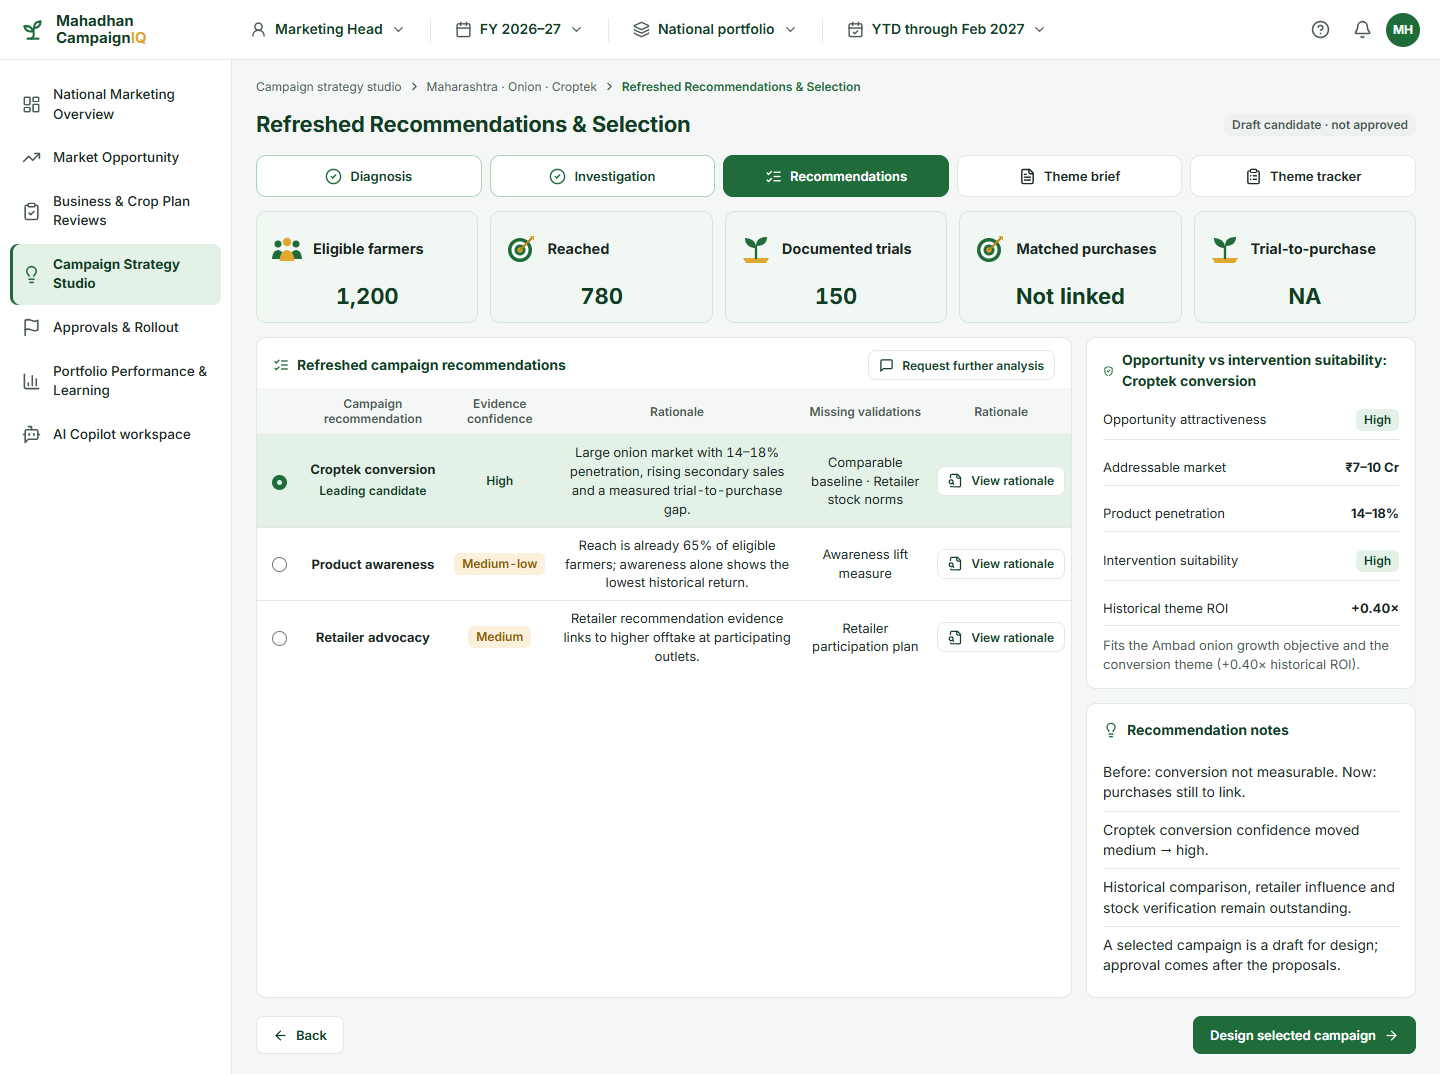
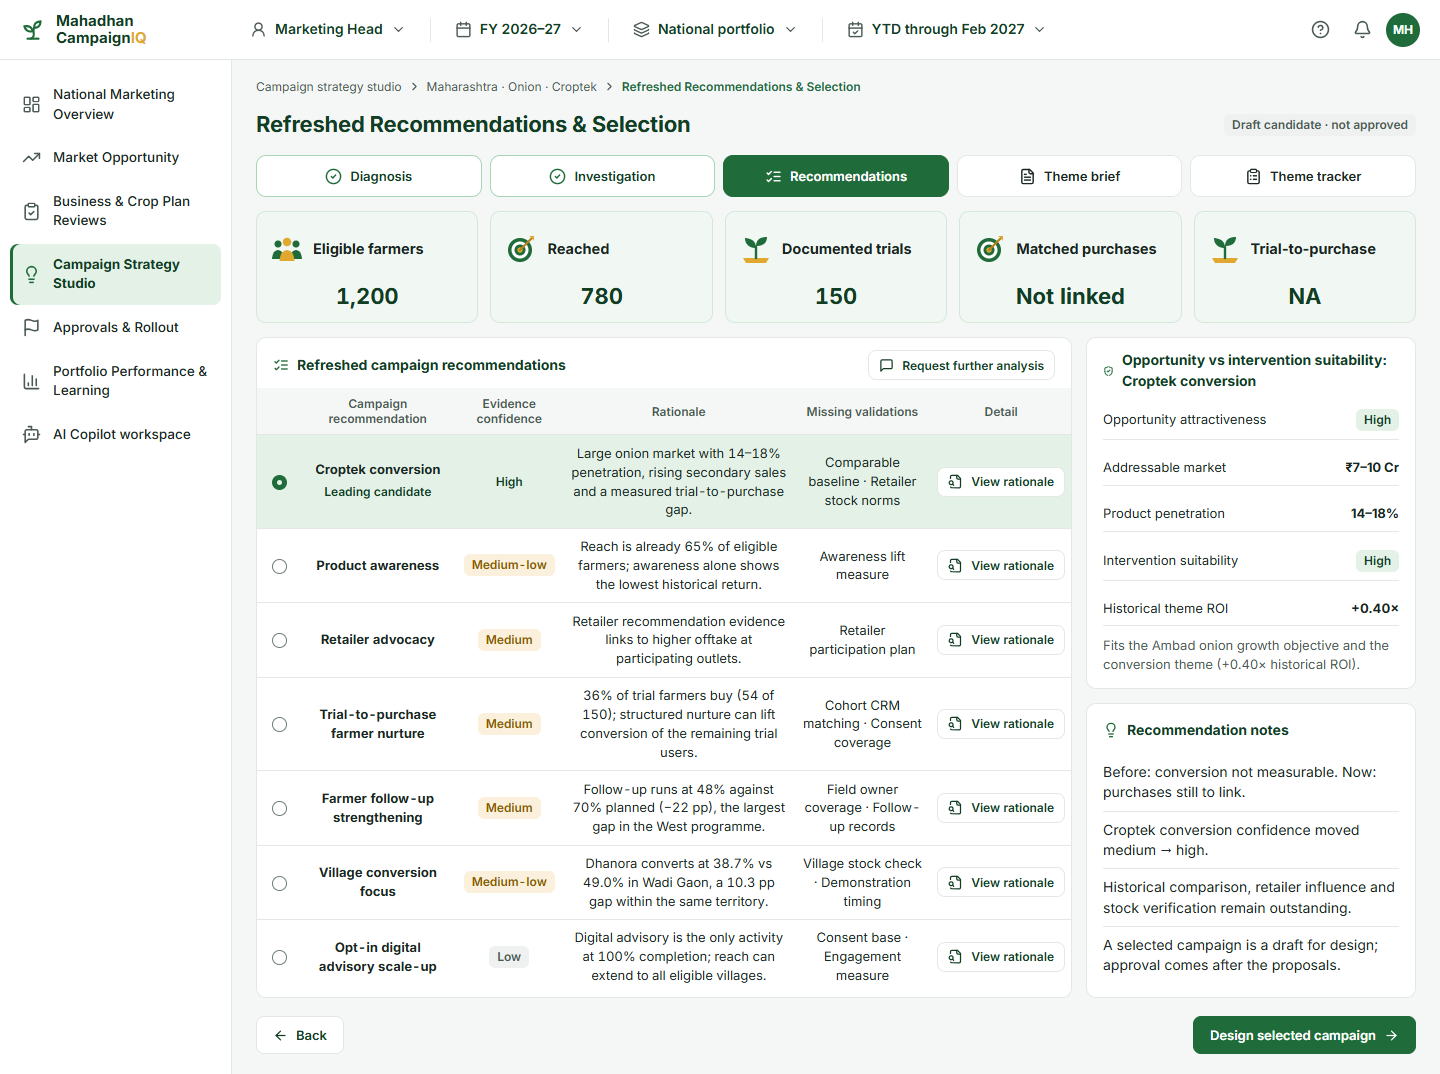
MH: fuller campaign recommendations

diff --git a/campaigniq-v3/src/data/mh.ts b/campaigniq-v3/src/data/mh.ts
@@ -6,7 +6,7 @@
 import type { MhRegionId } from '../routes';
 import { AMBAD, ambadMetrics, CAMPAIGNS, campaignById, netRoi, NATIONAL, REGIONS, regionById, regionRoi, THEMES, type ThemeId } from './bh';
 import { ratio, sum } from './format';
-import { coverageCalc, ONION_VILLAGE_PLAN } from './fsm';
+import { coverageCalc, interventionEffectiveness, ONION_VILLAGE_PLAN } from './fsm';
 import {
   approvalQueue, businessCaseC1, businessCaseC2, CROPTEK_EVIDENCE, impactRows, REGIONAL_ENVELOPE, scenariosFor, territoryPlan, trialToPurchasePct,
   fsmOwner, ZM_TERRITORY_IDS, zmTerritoryName,
@@ -135,11 +135,37 @@ export const STATUS_AFTER_CREATE: Record<string, RequestStatus> = { purchases: '
 export const nextRequestStatus = (s: RequestStatus): RequestStatus => (s === 'draft' ? 'requested' : s === 'requested' ? 'received' : 'validated');
 
 // ---------------------------------------------------------------- recommendations
-export interface Recommendation { id: string; name: string; theme: ThemeId; leading: boolean; before: 'Medium' | 'Low' | 'Medium-low'; after: 'High' | 'Medium' | 'Medium-low'; rationale: string; missing: string[]; suitability: string }
+export interface Recommendation { id: string; name: string; theme: ThemeId; leading: boolean; before: 'Medium' | 'Low' | 'Medium-low'; after: 'High' | 'Medium' | 'Medium-low' | 'Low'; rationale: string; missing: string[]; suitability: string }
+/** Programme intervention progress (%), shared by the recommendations and the performance screens. */
+const RETAILER_PROGRESS = { planned: 80, observed: 72 };
+const FOLLOWUP_PROGRESS = { planned: 70, observed: 48 };
+const village = (name: string) => AMBAD.villages.find((v) => v.name === name)!;
+const villagePct = (name: string) => ratio(village(name).adopters, village(name).trials);
+const fullyDone = () => interventionEffectiveness().filter((e) => e.planned > 0 && e.completed === e.planned);
 export const RECOMMENDATIONS: Recommendation[] = [
   { id: 'croptek-conversion', name: 'Croptek conversion', theme: 'conversion', leading: true, before: 'Medium', after: 'High', rationale: 'Large onion market with 14–18% penetration, rising secondary sales and a measured trial-to-purchase gap.', missing: ['Comparable baseline', 'Retailer stock norms'], suitability: 'Fits the Ambad onion growth objective and the conversion theme (+0.40× historical ROI).' },
   { id: 'product-awareness', name: 'Product awareness', theme: 'awareness', leading: false, before: 'Medium-low', after: 'Medium-low', rationale: 'Reach is already 65% of eligible farmers; awareness alone shows the lowest historical return.', missing: ['Awareness lift measure'], suitability: 'Supports conversion but returns +0.10× on its own.' },
   { id: 'retailer-advocacy', name: 'Retailer advocacy', theme: 'retailer', leading: false, before: 'Low', after: 'Medium', rationale: 'Retailer recommendation evidence links to higher offtake at participating outlets.', missing: ['Retailer participation plan'], suitability: 'Pairs with conversion as its channel lever (+0.40× historical ROI).' },
+  {
+    id: 'trial-nurture', name: 'Trial-to-purchase farmer nurture', theme: 'trial', leading: false, before: 'Medium', after: 'Medium',
+    rationale: `${Math.round(ratio(CROPTEK_EVIDENCE.purchases, CROPTEK_EVIDENCE.trials))}% of trial farmers buy (${CROPTEK_EVIDENCE.purchases} of ${CROPTEK_EVIDENCE.trials}); structured nurture can lift conversion of the remaining trial users.`,
+    missing: ['Cohort CRM matching', 'Consent coverage'], suitability: 'Targets the trial cohort directly; needs distinct cohorts from retailer-led conversion.',
+  },
+  {
+    id: 'followup-strengthening', name: 'Farmer follow-up strengthening', theme: 'trial', leading: false, before: 'Medium', after: 'Medium',
+    rationale: `Follow-up runs at ${FOLLOWUP_PROGRESS.observed}% against ${FOLLOWUP_PROGRESS.planned}% planned (−${FOLLOWUP_PROGRESS.planned - FOLLOWUP_PROGRESS.observed} pp), the largest gap in the West programme.`,
+    missing: ['Field owner coverage', 'Follow-up records'], suitability: 'Closes the largest execution gap inside the running Croptek programme.',
+  },
+  {
+    id: 'village-conversion', name: 'Village conversion focus', theme: 'conversion', leading: false, before: 'Medium-low', after: 'Medium-low',
+    rationale: `Dhanora converts at ${villagePct('Dhanora').toFixed(1)}% vs ${villagePct('Wadi Gaon').toFixed(1)}% in Wadi Gaon, a ${(villagePct('Wadi Gaon') - villagePct('Dhanora')).toFixed(1)} pp gap within the same territory.`,
+    missing: ['Village stock check', 'Demonstration timing'], suitability: 'A local fix inside Ambad; scale depends on village evidence.',
+  },
+  {
+    id: 'digital-scale-up', name: 'Opt-in digital advisory scale-up', theme: 'awareness', leading: false, before: 'Low', after: 'Low',
+    rationale: `${fullyDone().length === 1 ? 'Digital advisory is the only activity' : 'Digital advisory is one of the activities'} at 100% completion; reach can extend to all eligible villages.`,
+    missing: ['Consent base', 'Engagement measure'], suitability: 'Low-cost reach extension; awareness alone shows the lowest historical return.',
+  },
 ];
 export const themeRoi = (t: ThemeId) => { const x = THEMES.find((y) => y.id === t)!; return netRoi(x.sales, x.investment); };
 
@@ -223,8 +249,8 @@ export const STAGE_COUNTS = [{ stage: 'Published', n: 12 }, { stage: 'Submitted'
 export const westCampaigns = () => CAMPAIGNS.map((c) => ({ ...c, variance: c.observedExec - c.plannedExec, roi: netRoi(c.sales, c.actual) }));
 export const programmeVariance = () => { const c = campaignById('croptek'); return c.observedExec - c.plannedExec; };
 export const INTERVENTION_PERFORMANCE: { id: string; name: string; planned: number; observed: number }[] = [
-  { id: 'retailer', name: 'Retailer-led activation', planned: 80, observed: 72 },
-  { id: 'followup', name: 'Farmer follow-up', planned: 70, observed: 48 },
+  { id: 'retailer', name: 'Retailer-led activation', ...RETAILER_PROGRESS },
+  { id: 'followup', name: 'Farmer follow-up', ...FOLLOWUP_PROGRESS },
 ];
 export const territoryImpact = () => impactRows();
 export const ambadSummary = () => ambadMetrics();

diff --git a/campaigniq-v3/src/screens/mh/Strategy.tsx b/campaigniq-v3/src/screens/mh/Strategy.tsx
@@ -217,7 +217,7 @@ function RecommendationTable({ refreshed }: { refreshed: boolean }) {
           { key: 'c', header: 'Evidence confidence', align: 'center', render: (r) => <StatusChip tone={CONF_TONE[refreshed ? r.after : r.before]}>{refreshed ? r.after : r.before}</StatusChip> },
           { key: 'r', header: 'Rationale', render: (r) => r.rationale },
           { key: 'm', header: 'Missing validations', render: (r) => r.missing.join(' · ') },
-          { key: 'v', header: 'Rationale', align: 'center', render: (r) => <Button small icon={FileSearch} onClick={() => setEvidence(rationale(r.id))}>View rationale</Button> },
+          { key: 'v', header: 'Detail', align: 'center', render: (r) => <Button small icon={FileSearch} onClick={() => setEvidence(rationale(r.id))}>View rationale</Button> },
         ]} />
       {evidence && <EvidenceDrawer evidence={evidence} onClose={() => setEvidence(null)} />}
     </>
@@ -256,7 +256,7 @@ export function Recommendations() {
         <KpiCard label="Recommendations" value={num(RECOMMENDATIONS.length)} />
       </div>
       <div className="grid" style={{ gridTemplateColumns: 'minmax(0, 1fr) 330px' }}>
-        <Card title="Campaign recommendations (output of diagnosis)" icon={ListChecks} flush right={<Button small icon={PenLine} onClick={() => go(M.themeBrief)}>Design selected campaign</Button>}><RecommendationTable refreshed={false} /></Card>
+        <Card title="Campaign recommendations (output of diagnosis)" icon={ListChecks} flush className="tbl-fill" right={<Button small icon={PenLine} onClick={() => go(M.themeBrief)}>Design selected campaign</Button>}><RecommendationTable refreshed={false} /></Card>
         <div className="stack">
           <Suitability id={r.id} refreshed={false} />
           <Notes title="Recommendation summary" items={[
@@ -515,7 +515,7 @@ export function RefreshedRecommendations() {
         <KpiCard label="Trial-to-purchase" value={f.trialToPurchasePct === null ? 'NA' : pct(f.trialToPurchasePct, 0)} />
       </div>
       <div className="grid" style={{ gridTemplateColumns: 'minmax(0, 1fr) 330px' }}>
-        <Card title="Refreshed campaign recommendations" icon={ListChecks} flush right={<Button small icon={MessageSquare} onClick={() => go(`${M.diagnosis}?analysis=1`)}>Request further analysis</Button>}><RecommendationTable refreshed /></Card>
+        <Card title="Refreshed campaign recommendations" icon={ListChecks} flush className="tbl-fill" right={<Button small icon={MessageSquare} onClick={() => go(`${M.diagnosis}?analysis=1`)}>Request further analysis</Button>}><RecommendationTable refreshed /></Card>
         <div className="stack">
           <Suitability id={r.id} refreshed />
           <Notes title="Recommendation notes" items={[

diff --git a/campaigniq-v3/src/data/mh.test.ts b/campaigniq-v3/src/data/mh.test.ts
@@ -46,6 +46,9 @@ describe('plans, diagnosis and recommendations', () => {
     expect(EVIDENCE_REQUESTS).toHaveLength(3);
     expect(['draft', 'requested', 'received'].map((s) => nextRequestStatus(s as never))).toEqual(['requested', 'received', 'validated']);
     expect(RECOMMENDATIONS.filter((r) => r.leading).map((r) => r.name)).toEqual(['Croptek conversion']);
+    expect(RECOMMENDATIONS.length).toBe(7);
+    expect(RECOMMENDATIONS.slice(3).map((r) => r.rationale.match(/\d+(\.\d+)?%/)![0])).toEqual(['36%', '48%', '38.7%', '100%']);
+    expect(RECOMMENDATIONS[6].rationale.startsWith('Digital advisory is the only activity')).toBe(true);
   });
 });
 

diff --git a/campaigniq-v3/src/screens/mh/Themes.tsx b/campaigniq-v3/src/screens/mh/Themes.tsx
@@ -179,7 +179,7 @@ type TrackerView = 'all' | 'assigned' | 'pending';
 function useTrackerRows(): TrackerRow[] {
   const zm = useZmStore();
   const life = useThemeLifecycle();
-  const fromRecs = RECOMMENDATIONS.map((r): TrackerRow => {
+  const fromRecs = RECOMMENDATIONS.filter((r) => r.id in THEME_LINKS).map((r): TrackerRow => {
     const b = life.brief(r.id);
     const t = life.zmTheme(r.id);
     const st = life.stage(r.id);
